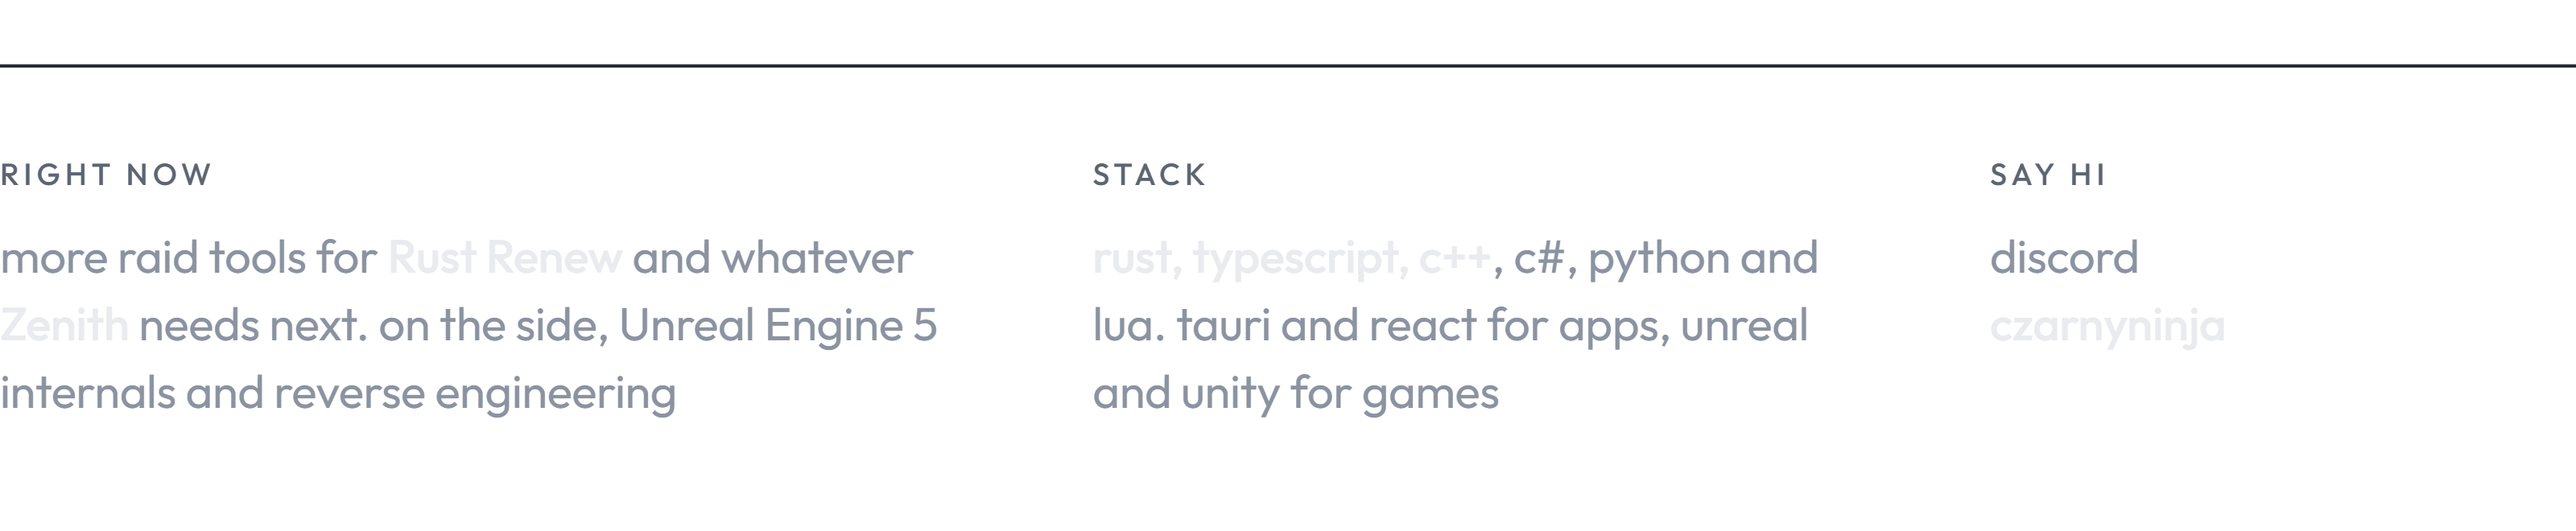
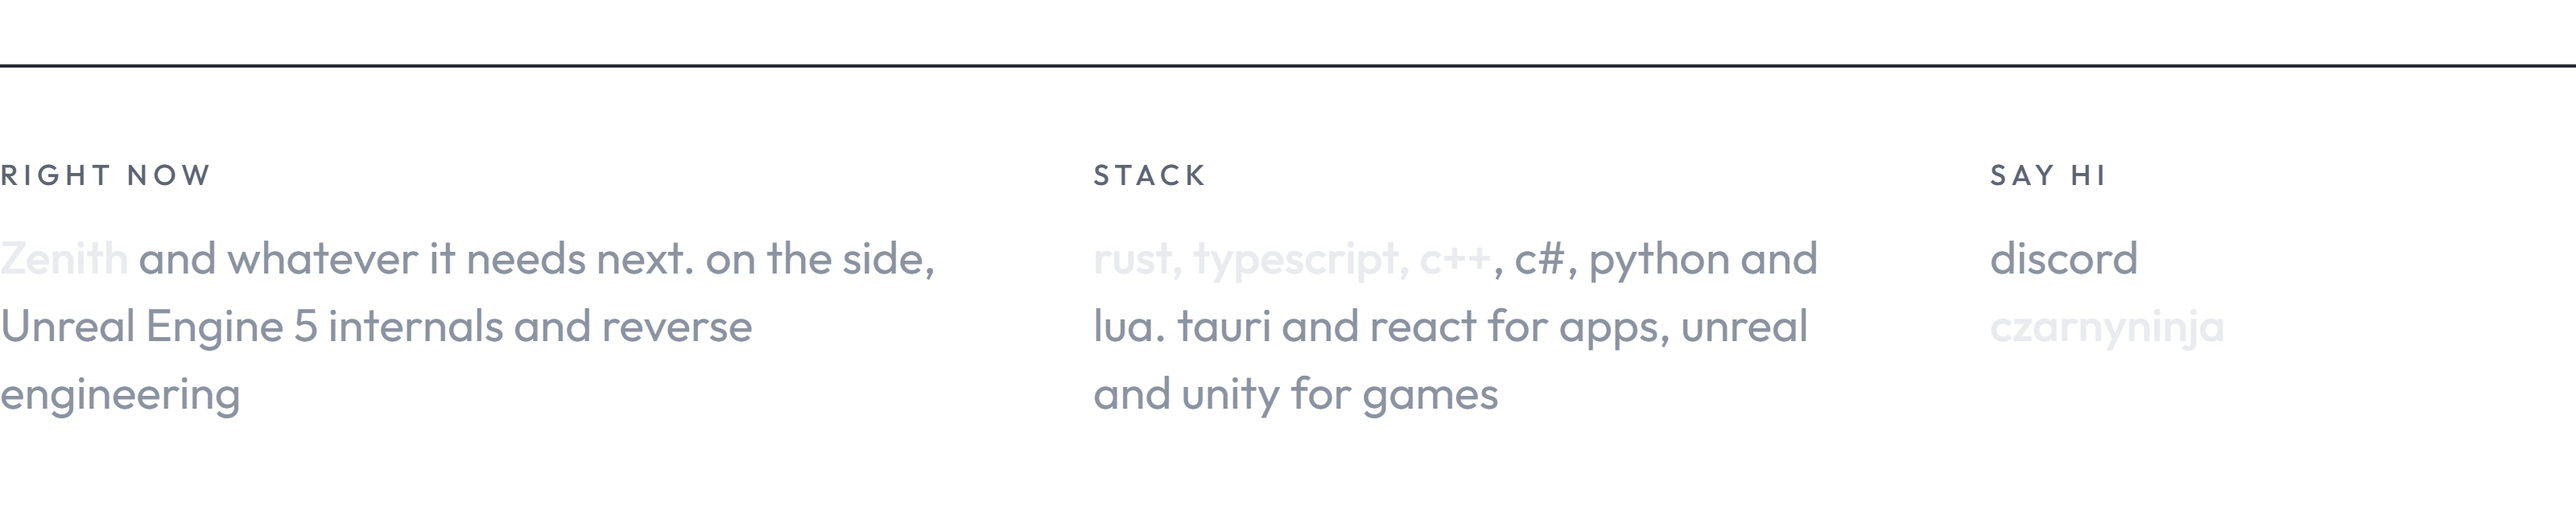
drop rust renew, footer without it

diff --git a/README.md b/README.md
@@ -11,9 +11,7 @@
   <a href="https://github.com/tonieninja/zenith-player/releases/latest">download</a>
 </p>
 
-<a href="https://tonieninja.dev/RustRenew/RustRenew.html"><img src="assets/rust-renew.png" width="100%" alt="Rust Renew, a companion app for the game Rust"></a>
-
 <picture>
   <source media="(prefers-color-scheme: dark)" srcset="assets/footer-dark.png">
-  <img src="assets/footer-light.png" width="100%" alt="right now: more raid tools for Rust Renew and whatever Zenith needs next. stack: rust, typescript, c++, c#, python, lua. say hi on discord: czarnyninja">
+  <img src="assets/footer-light.png" width="100%" alt="right now: Zenith and whatever it needs next. on the side, Unreal Engine 5 internals and reverse engineering. stack: rust, typescript, c++, c#, python, lua. say hi on discord: czarnyninja">
 </picture>
